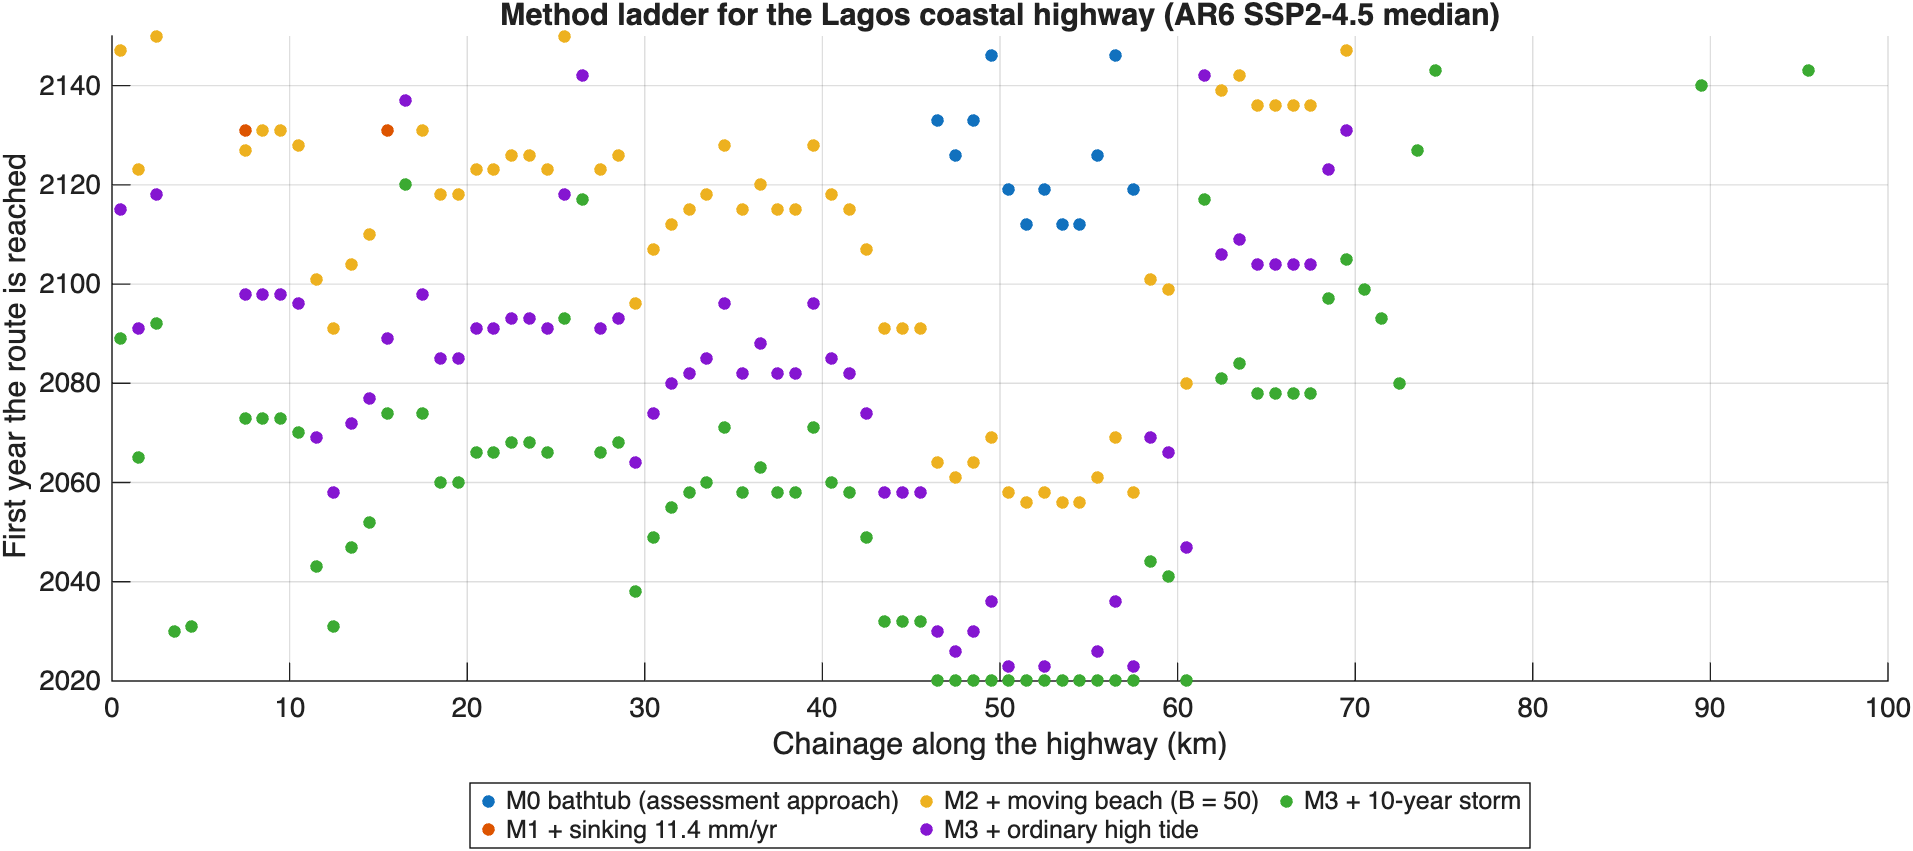
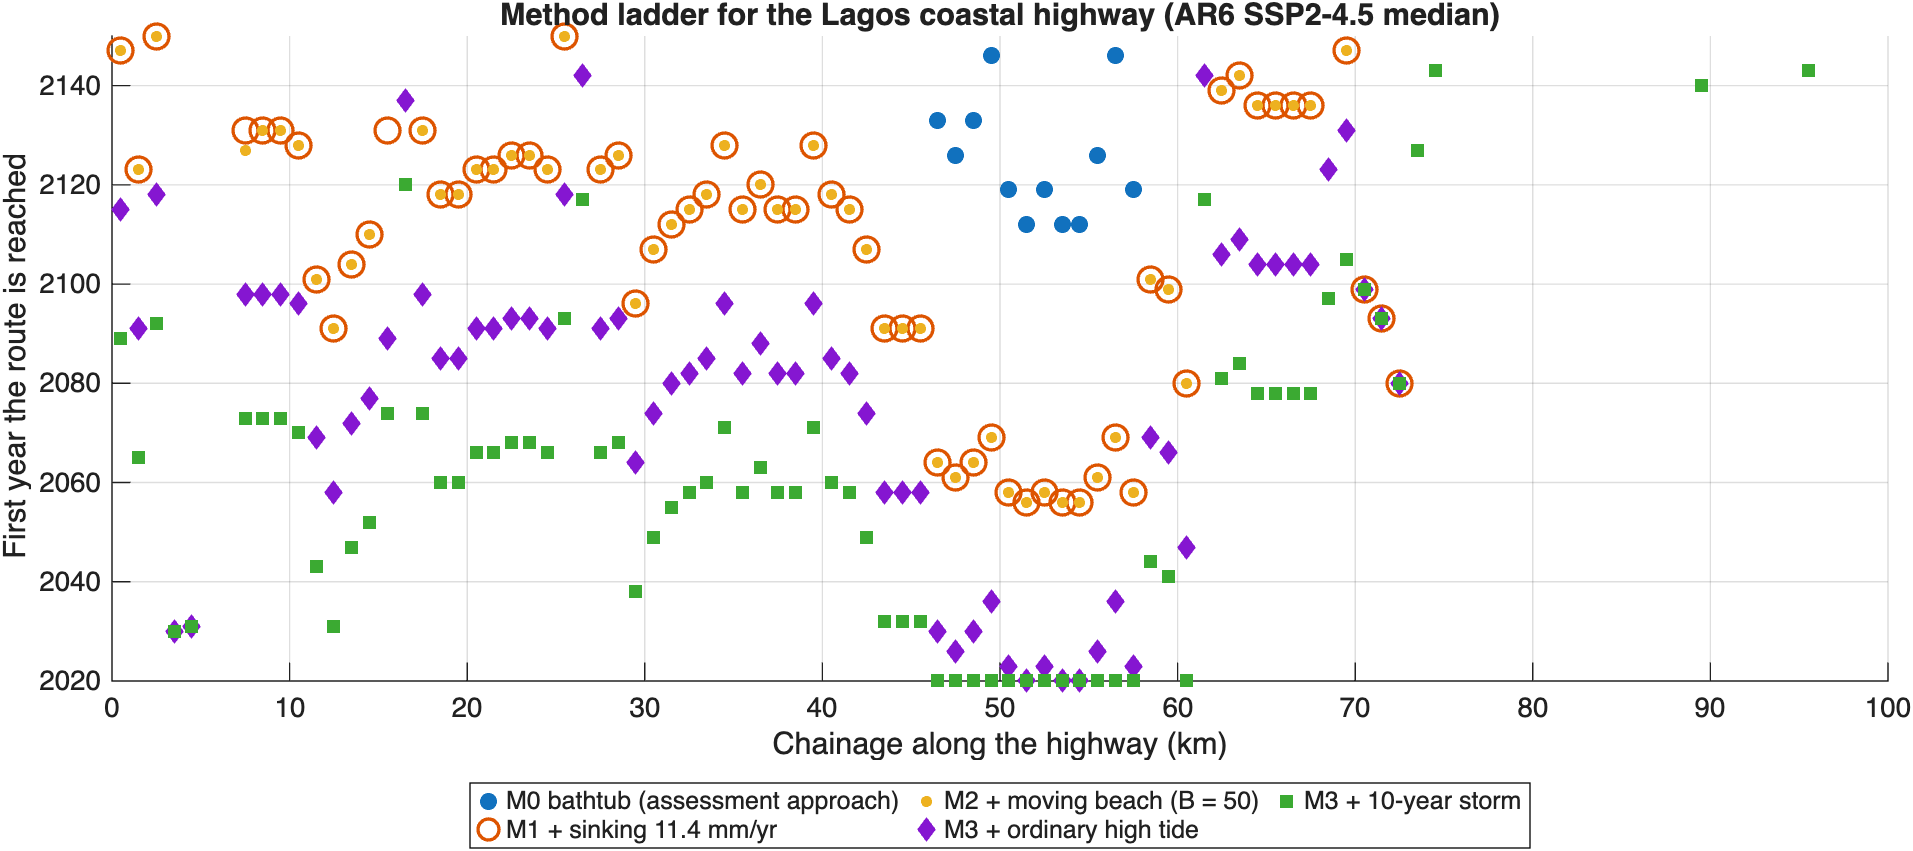
Update method ladder figure

diff --git a/README.md b/README.md
@@ -92,7 +92,7 @@ Full claim lists with page numbers: `data/esia/esia_section1_claims.csv` and `da
 
 ### Figures
 
-First year each road km is reached, for every method (SSP2-4.5 median). Points missing for a method mean that km is not reached by 2150. Where M2 and M1 give the same year, the M2 point sits on the M1 point:
+First year each road km is reached, for every method (SSP2-4.5 median). Points missing for a method mean that km is not reached by 2150. Where M2 and M1 give the same year, the M2 dot sits inside the M1 ring:
 
 ![Method ladder](docs/figures/method_ladder_full.png)
 
